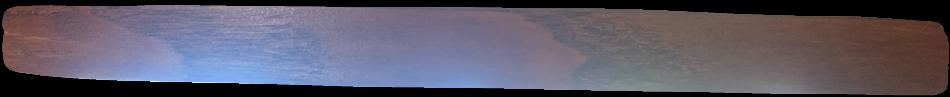
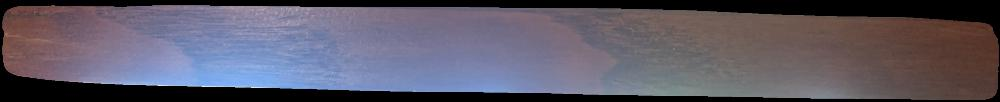
faster reader

diff --git a/ocr.py b/ocr.py
@@ -17,7 +17,7 @@ import time
 
 # %% settings
 min_confidence = .5 # PLAY WITH
-long_side = 950   # PLAY WITH
+long_side = 1000   # PLAY WITH
 padding = 0.06      # PLAY WITH
 east_path = "./shelves/frozen_east_text_detection.pb"
 classes = ["book_spine", "inc_spine", "no_text", "book_cover", "inc_cover"]
@@ -144,24 +144,32 @@ import re
 
 # keras-ocr will automatically download pretrained
 # weights for the detector and recognizer.
+# detector = keras_ocr.detection.Detector()
+# recognizer = keras_ocr.recognition.Recognizer()
+
 pipeline = keras_ocr.pipeline.Pipeline()
+
+# https://www.tensorflow.org/api_docs/python/tf/image/resize_with_pad
+# IS THE KEY
 
 def spine_reader(image_path, flip=False):
     # !pip install keras-ocr
-
     tic = time.perf_counter()
 
     # read image
     ig = cv2.imread(image_path)
 
     if flip:
-        ig = rotate_bound(ig, 180)
-    # TO DO detect if too dark/bright, and auto-fix
-    images = [ig, rotate_bound(ig, 90)]
+        ig = rotate(ig, 180)
+
+    ig2 = rotate_bound(ig, 90)
 
     # Each list of predictions in prediction_groups is a list of
     # (word, box) tuples.
-    prediction_groups = pipeline.recognize(images)
+
+    group_1 = pipeline.recognize([ig])
+    group_2 = pipeline.recognize([ig2])
+    prediction_groups = [group_1[0], group_2[0]]
 
     # Get text
     text = []
@@ -169,7 +177,7 @@ def spine_reader(image_path, flip=False):
     for i, predictions in enumerate(prediction_groups):
         for prediction in predictions:
             word = prediction[0]
-            if word == "used" or word == "bestseller":
+            if word == "used" or word == "bestseller": # or "updated"?
                 print("used/bestseller detected, deleting")
                 continue
             tl, tr, br, bl = prediction[1]
@@ -186,7 +194,7 @@ def spine_reader(image_path, flip=False):
     print(f"text: {text}, done in {toc-tic:.4f} ")
 
     # # Plot the predictions
-    # for predictions, image in zip(prediction_groups, images):
+    # for predictions, image in zip(prediction_groups, [ig, ig2]):
     #     keras_ocr.tools.drawAnnotations(image=image, predictions=predictions, ax=None)
     #     plt.show()
 
